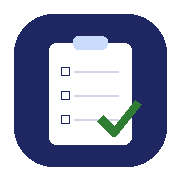
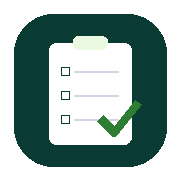
Add files via upload

diff --git a/index.html b/index.html
@@ -5,7 +5,7 @@
 <meta name="viewport" content="width=device-width, initial-scale=1.0, viewport-fit=cover">
 <title>Checklist Orden y Limpieza · Red Ralarsa</title>
 <link rel="manifest" href="manifest.json">
-<meta name="theme-color" content="#1E2761">
+<meta name="theme-color" content="#093A33">
 <link rel="apple-touch-icon" href="apple-touch-icon.png">
 <meta name="apple-mobile-web-app-capable" content="yes">
 <meta name="mobile-web-app-capable" content="yes">
@@ -14,17 +14,17 @@
 <link rel="icon" href="icon-192.png">
 <style>
   :root{
-    --navy:#1E2761;
-    --navy-dark:#141B49;
-    --ice:#CADCFC;
-    --ice-soft:#EAF0FB;
-    --bg:#F4F6FB;
+    --navy:#093A33;
+    --navy-dark:#062824;
+    --ice:#98FF84;
+    --ice-soft:#E9F9E2;
+    --bg:#F3F8F4;
     --card:#FFFFFF;
-    --line:#DDE3F0;
-    --text:#1C2340;
-    --muted:#6B7290;
-    --green:#1E7E45;
-    --green-bg:#E8F5EC;
+    --line:#D8EAE0;
+    --text:#16241F;
+    --muted:#5D7A6C;
+    --green:#2E9E52;
+    --green-bg:#E6F6EA;
     --red:#B3261E;
     --red-bg:#FCEAE9;
     --amber:#8A5A00;
@@ -40,13 +40,14 @@
   .app{max-width:760px; margin:0 auto; padding-bottom:110px;}
 
   header.top{
-    background:var(--navy); color:#fff; padding:22px 20px 18px;
+    background:var(--navy); color:#fff; padding:18px 20px 18px;
     position:sticky; top:0; z-index:20;
   }
-  header.top h1{font-size:20px; font-weight:700; letter-spacing:.2px;}
-  header.top p{margin:4px 0 0; font-size:12.5px; color:var(--ice); opacity:.9;}
+  .brand-logo{height:26px; display:block; margin-bottom:12px;}
+  header.top h1{font-size:19px; font-weight:700; letter-spacing:.2px;}
+  header.top p{margin:4px 0 0; font-size:12.5px; color:var(--ice); opacity:.95;}
   .modebadge{display:inline-block; margin-top:8px; padding:4px 10px; border-radius:20px; font-size:11px; font-weight:700;}
-  .modebadge.cloud{background:rgba(46,125,50,.25); color:#B9F0C4;}
+  .modebadge.cloud{background:rgba(152,255,132,.22); color:var(--ice);}
   .modebadge.local{background:rgba(255,193,7,.22); color:#FFE08A;}
 
   nav.tabs{display:flex; gap:6px; padding:12px 20px 0;}
@@ -164,7 +165,7 @@
   }
   .formador-select button.on{background:var(--navy); border-color:var(--navy); color:#fff;}
   .next-session{
-    background:linear-gradient(135deg, var(--navy), #2C3A8C); color:#fff; border-radius:14px;
+    background:linear-gradient(135deg, var(--navy), #0F5C4D); color:#fff; border-radius:14px;
     padding:16px; margin:14px 0;
   }
   .next-session .tag{font-size:11px; text-transform:uppercase; letter-spacing:.5px; color:var(--ice); font-weight:700;}
@@ -242,6 +243,7 @@
 <body>
 <div class="app">
   <header class="top">
+    <img src="ralarsa-logo.png" alt="Ralarsa" class="brand-logo">
     <h1>Checklist Orden y Limpieza</h1>
     <p>Plan de Formación · Red Técnica Ralarsa</p>
     <span class="modebadge" id="modeBadge"></span>

diff --git a/sw.js b/sw.js
@@ -1,6 +1,6 @@
-const CACHE = "checklist-ralarsa-v2";
+const CACHE = "checklist-ralarsa-v4";
 const ASSETS = ["./", "./index.html", "./manifest.json", "./agenda_data.json",
-  "./icon-192.png", "./icon-512.png", "./apple-touch-icon.png"];
+  "./icon-192.png", "./icon-512.png", "./apple-touch-icon.png", "./ralarsa-logo.png"];
 
 self.addEventListener("install", (e) => {
   e.waitUntil(caches.open(CACHE).then((c) => c.addAll(ASSETS)));
@@ -24,7 +24,7 @@ self.addEventListener("fetch", (e) => {
 
   if (isCore) {
     e.respondWith(
-      fetch(e.request)
+      fetch(e.request, { cache: "no-store" })
         .then((res) => {
           if (res && res.status === 200) {
             const copy = res.clone();
